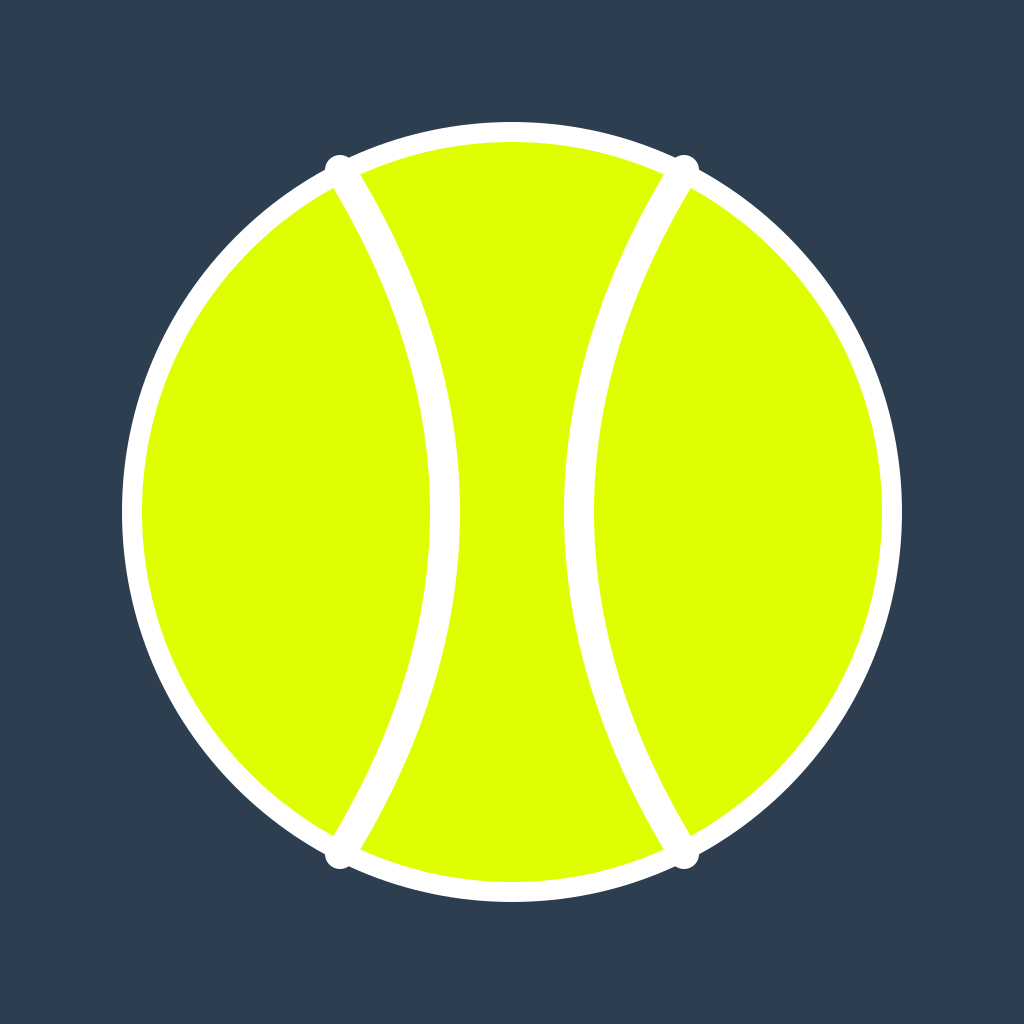
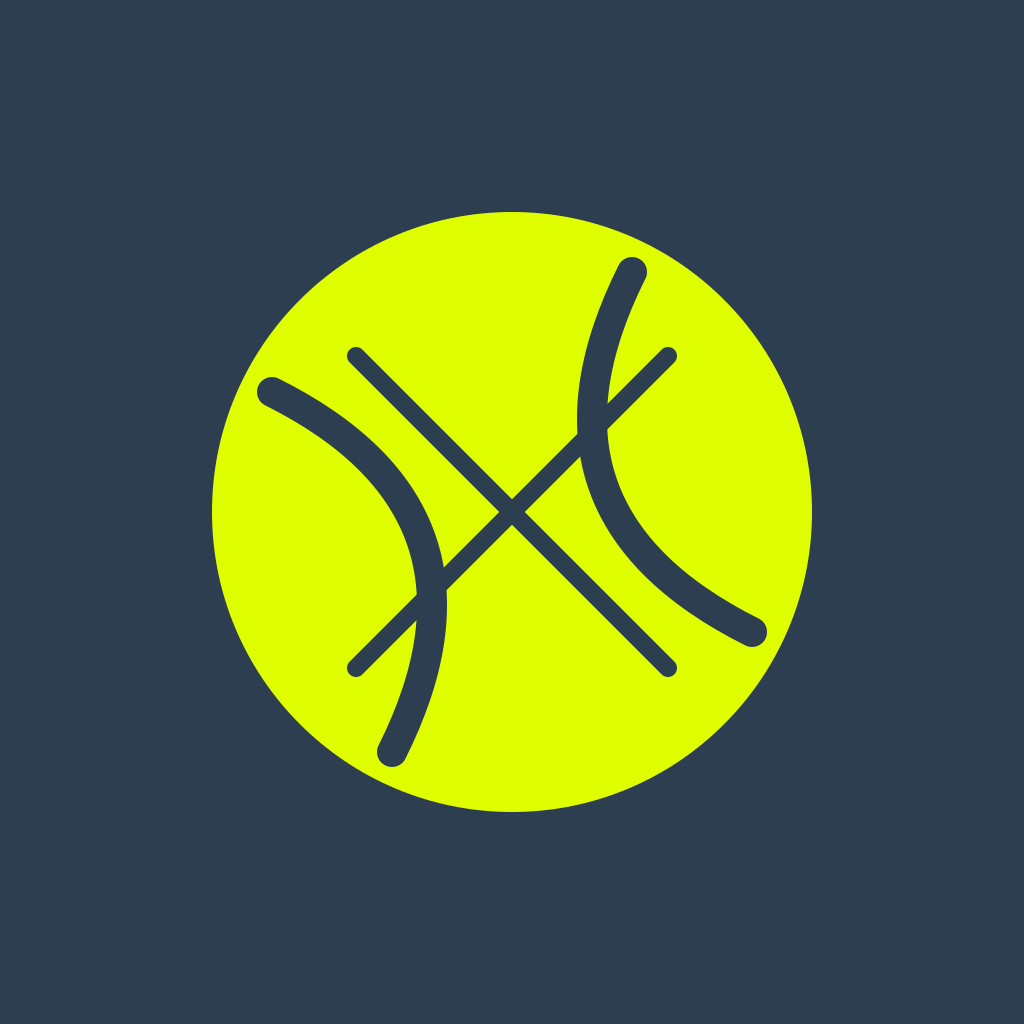
feat(技能详情页): 添加图片全屏预览与双指缩放功能
引入 react-native-image-zoom-viewer 库实现技能配图的全屏预览功能
在 SkillDetailScreen 中添加图片点击放大、双指缩放和手势关闭功能
自定义网球风格的关闭按钮，优化用户体验

Changed region(s): [[0.0938, 0.0938, 0.9062, 0.9062]]

diff --git a/src/screens/SkillDetailScreen.tsx b/src/screens/SkillDetailScreen.tsx
@@ -1,7 +1,8 @@
 import React, { useState } from 'react';
-import { View, Text, StyleSheet, ScrollView, TouchableOpacity, TextInput, Button, KeyboardAvoidingView, Platform, Image } from 'react-native';
+import { View, Text, StyleSheet, ScrollView, TouchableOpacity, TextInput, Button, KeyboardAvoidingView, Platform, Image, Modal } from 'react-native';
 import { useRoute, useNavigation, RouteProp } from '@react-navigation/native';
-import { CheckSquare, Square, ArrowLeft, Star, ChevronDown, ChevronRight, AlertCircle, Dumbbell } from 'lucide-react-native';
+import ImageViewer from 'react-native-image-zoom-viewer';
+import { CheckSquare, Square, ArrowLeft, Star, ChevronDown, ChevronRight, AlertCircle, Dumbbell, X } from 'lucide-react-native';
 
 import { skills, drills } from '../data/mockData';
 import { useStore } from '../store';
@@ -68,6 +69,13 @@ export default function SkillDetailScreen() {
   const isCompleted = !!skillCompletion[skillId];
   
   const [newNote, setNewNote] = useState('');
+  const [isImageViewVisible, setIsImageViewVisible] = useState(false);
+  const [viewerKey, setViewerKey] = useState(0);
+
+  const openImageViewer = () => {
+    setViewerKey(prev => prev + 1);
+    setIsImageViewVisible(true);
+  };
 
   if (!skill) {
     return (
@@ -126,11 +134,38 @@ export default function SkillDetailScreen() {
           </View>
 
           {skill.imageSource && (
-            <Image 
-              source={skill.imageSource} 
-              style={styles.skillImage} 
-              resizeMode="cover"
-            />
+            <>
+              <TouchableOpacity activeOpacity={0.9} onPress={openImageViewer}>
+                <Image 
+                  source={skill.imageSource} 
+                  style={styles.skillImage} 
+                  resizeMode="cover"
+                />
+              </TouchableOpacity>
+              <Modal visible={isImageViewVisible} transparent={true} onRequestClose={() => setIsImageViewVisible(false)}>
+                <ImageViewer
+                  key={viewerKey}
+                  imageUrls={[{ url: '', props: { source: skill.imageSource } }]}
+                  index={0}
+                  enableSwipeDown={false}
+                  backgroundColor="#FFFFFF"
+                  renderIndicator={() => <View />} // 隐藏页码
+                />
+                <View style={styles.viewerCustomCloseContainer}>
+                  <TouchableOpacity 
+                    style={styles.viewerCustomCloseButton}
+                    onPress={() => setIsImageViewVisible(false)}
+                    hitSlop={{ top: 20, bottom: 20, left: 20, right: 20 }}
+                  >
+                    {/* 模拟网球的两条白色曲线缝线 */}
+                    <View style={styles.tennisLineLeft} />
+                    <View style={styles.tennisLineRight} />
+                    {/* 关闭图标 */}
+                    <X color="#2C3E50" size={24} style={{ zIndex: 10 }} />
+                  </TouchableOpacity>
+                </View>
+              </Modal>
+            </>
           )}
 
           <Text style={styles.description}>{skill.description}</Text>
@@ -440,5 +475,45 @@ const styles = StyleSheet.create({
     fontSize: 13,
     color: '#34495E',
     flex: 1,
+  },
+  viewerCustomCloseContainer: {
+    position: 'absolute',
+    top: Platform.OS === 'ios' ? 50 : 20,
+    right: 20,
+  },
+  viewerCustomCloseButton: {
+    width: 44,
+    height: 44,
+    borderRadius: 22,
+    backgroundColor: '#DFFF00', // 网球荧光黄
+    justifyContent: 'center',
+    alignItems: 'center',
+    shadowColor: '#000',
+    shadowOffset: { width: 0, height: 2 },
+    shadowOpacity: 0.2,
+    shadowRadius: 4,
+    borderWidth: 1,
+    borderColor: '#E6E6E6', // 淡淡的边缘光泽
+    overflow: 'hidden', // 限制白线不要超出圆形
+  },
+  tennisLineLeft: {
+    position: 'absolute',
+    width: 30,
+    height: 30,
+    borderRadius: 15,
+    borderWidth: 2,
+    borderColor: '#FFFFFF',
+    left: -15,
+    top: 7,
+  },
+  tennisLineRight: {
+    position: 'absolute',
+    width: 30,
+    height: 30,
+    borderRadius: 15,
+    borderWidth: 2,
+    borderColor: '#FFFFFF',
+    right: -15,
+    top: 7,
   }
 });

diff --git a/generate-all-icons.js b/generate-all-icons.js
@@ -1,0 +1,50 @@
+const fs = require('fs');
+const path = require('path');
+const sharp = require('sharp');
+
+// 1024x1024 iOS Icon SVG (solid #2C3E50 background, 600x600 tennis ball centered)
+const iosIconSvg = `
+<svg width="1024" height="1024" viewBox="0 0 1024 1024" xmlns="http://www.w3.org/2000/svg">
+  <rect width="1024" height="1024" fill="#2C3E50" />
+  <g transform="translate(212, 212) scale(1.2)">
+    <circle cx="250" cy="250" r="250" fill="#DFFF00" />
+    <path d="M 50 150 Q 250 250 150 450" fill="none" stroke="#2C3E50" stroke-width="25" stroke-linecap="round" />
+    <path d="M 450 350 Q 250 250 350 50" fill="none" stroke="#2C3E50" stroke-width="25" stroke-linecap="round" />
+    <path d="M 120 120 L 380 380" fill="none" stroke="#2C3E50" stroke-width="15" stroke-linecap="round" />
+    <path d="M 120 380 L 380 120" fill="none" stroke="#2C3E50" stroke-width="15" stroke-linecap="round" />
+  </g>
+</svg>
+`;
+
+// 1024x1024 Splash Icon SVG (transparent background, 600x600 tennis ball centered)
+// The actual background color #2C3E50 is set in app.json for the splash screen
+const splashIconSvg = `
+<svg width="1024" height="1024" viewBox="0 0 1024 1024" xmlns="http://www.w3.org/2000/svg">
+  <rect width="1024" height="1024" fill="transparent" />
+  <g transform="translate(212, 212) scale(1.2)">
+    <circle cx="250" cy="250" r="250" fill="#DFFF00" />
+    <path d="M 50 150 Q 250 250 150 450" fill="none" stroke="#2C3E50" stroke-width="25" stroke-linecap="round" />
+    <path d="M 450 350 Q 250 250 350 50" fill="none" stroke="#2C3E50" stroke-width="25" stroke-linecap="round" />
+    <path d="M 120 120 L 380 380" fill="none" stroke="#2C3E50" stroke-width="15" stroke-linecap="round" />
+    <path d="M 120 380 L 380 120" fill="none" stroke="#2C3E50" stroke-width="15" stroke-linecap="round" />
+  </g>
+</svg>
+`;
+
+async function generateIcons() {
+  const assetsDir = path.join(__dirname, 'assets');
+  
+  console.log('Generating padded iOS icon (icon.png)...');
+  await sharp(Buffer.from(iosIconSvg))
+    .png()
+    .toFile(path.join(assetsDir, 'icon.png'));
+    
+  console.log('Generating padded Splash icon (splash-icon.png)...');
+  await sharp(Buffer.from(splashIconSvg))
+    .png()
+    .toFile(path.join(assetsDir, 'splash-icon.png'));
+
+  console.log('Icons generated successfully!');
+}
+
+generateIcons().catch(console.error);

diff --git a/.trae/documents/technical-architecture.md b/.trae/documents/technical-architecture.md
@@ -25,6 +25,7 @@ graph TD
 - State Management: Zustand + persist middleware
 - UI Library: React Native 原生 StyleSheet + Lucide React Native (图标)
 - Navigation: React Navigation (Bottom Tabs + Native Stack)
+- Image Viewer: react-native-image-zoom-viewer (用于图片全屏双指缩放预览)
 
 ## 3. Route Definitions
 | Route/Screen | Purpose | Icon |
@@ -217,3 +218,11 @@ const skills = [
   - **状态管理**：新增 `useCoachStore`，利用 `persist` 中间件将 `students` 和 `lessonPlans` 持久化到 AsyncStorage。
   - **学员档案页**：采用顶部分段器切换视图。技能评估视图以列表呈现该学员当前水平的技能，教练可勾选完成或标记 `painPointIds`。
   - **教案编辑页**：表单界面。当教练选择某个包含痛点的重点技能时，系统自动从 `drills` 库中拉取对应的 `Drill` 推荐列表，教练可一键添加至 `selectedDrillIds` 并在课后写入总结 `coachNotes`。
+
+### 7.8 图片全屏预览与双指缩放
+- **实现位置**：`SkillDetailScreen.tsx`
+- **功能描述**：技能详情页的技能配图支持点击放大，并在全屏模式下支持双指缩放和手势滑动关闭。
+- **技术实现**：
+  - 引入第三方库 `react-native-image-zoom-viewer`。
+  - 在页面组件中维护 `isImageViewVisible` 状态。
+  - 使用 React Native 的 `<Modal>` 组件，将 `ImageViewer` 和自定义的关闭按钮组合在一起渲染，完美绕过缩放时强制隐藏 Header 的问题。

diff --git a/.trae/documents/prd.md b/.trae/documents/prd.md
@@ -23,7 +23,7 @@
 | 水平标准页面 (Tab 1) | 水平标准列表 | 底部 Tab 导航第一个，图标为 `Target`。展示各水平标准、技能要求与**预期练习投入** |
 | 水平标准页面 | 技能树/Checklist| 分为“已掌握”和“新技能”，支持自动滚动定位 |
 | 技能页面 (Tab 2) | 技能分类 | 底部 Tab 导航第二个，图标为 `CheckSquare`。按分类筛选展示所有技能 |
-| 技能页面 | 技能详情 | 详细说明、动作示范、技术要点。**新增「常见痛点」列表与对应的「练习处方（Drills）」指导** |
+| 技能页面 | 技能详情 | 详细说明、动作示范、技术要点。**新增「常见痛点」列表与对应的「练习处方（Drills）」指导。支持动作示范图片点击全屏预览与双指缩放** |
 | 记录页面 (Tab 3) | 技能备忘录 | 底部 Tab 导航第三个，图标为 `BookOpen`。记录日期和时间、通用备忘录 |
 | 教练页面 (Tab 4) | 学员列表 | 底部 Tab 导航第四个，图标为 `Users`。展示所有学员的简要进度和最近上课时间 |
 | 教练页面 | 学员档案 | 查看特定学员的整体技能掌握进度、各项技能的痛点标记、历史课程记录 |
